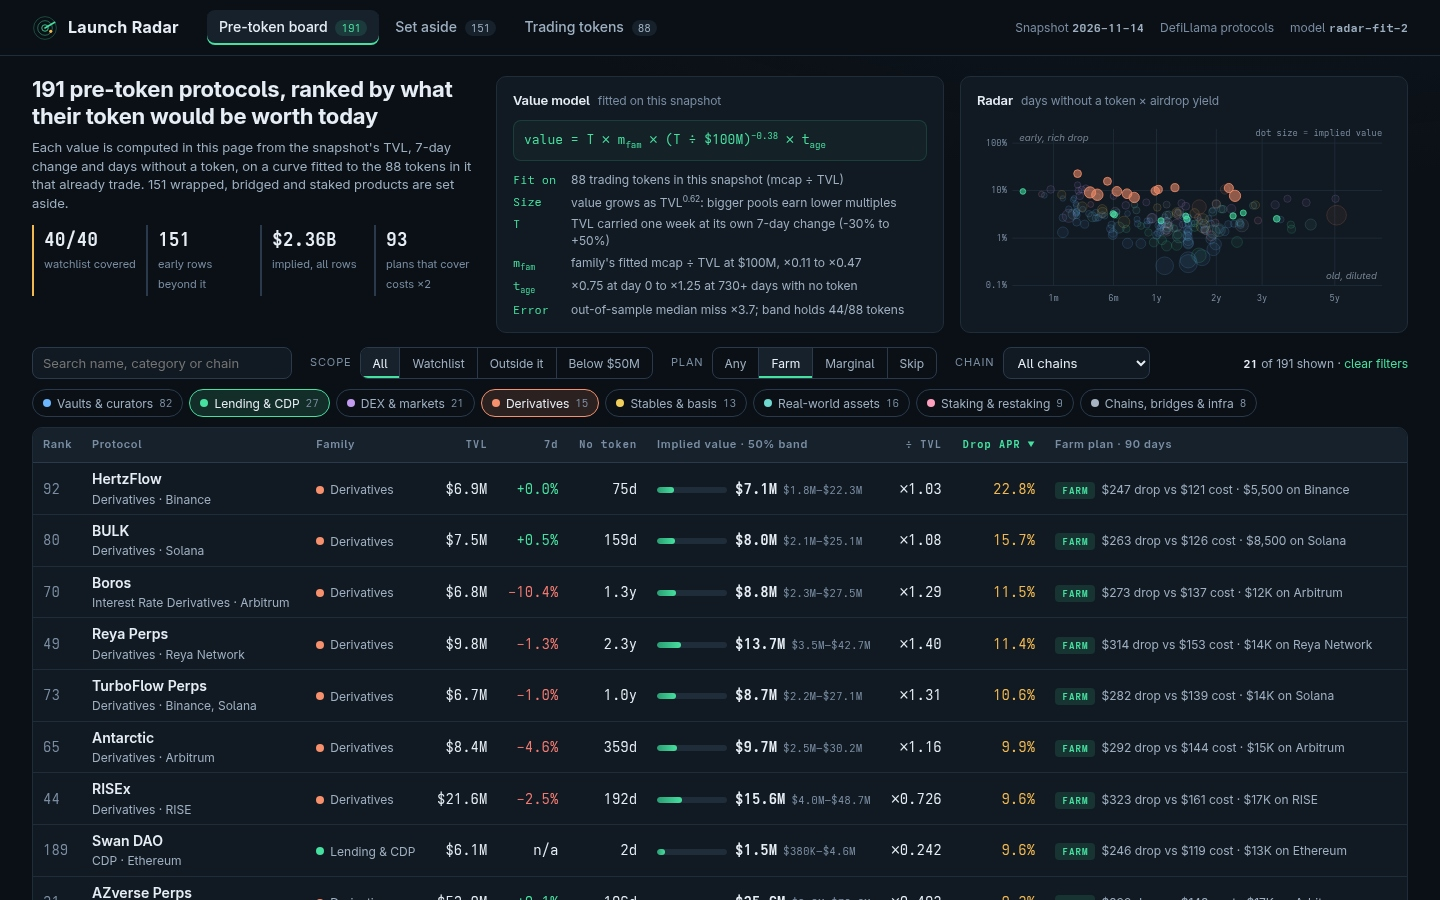
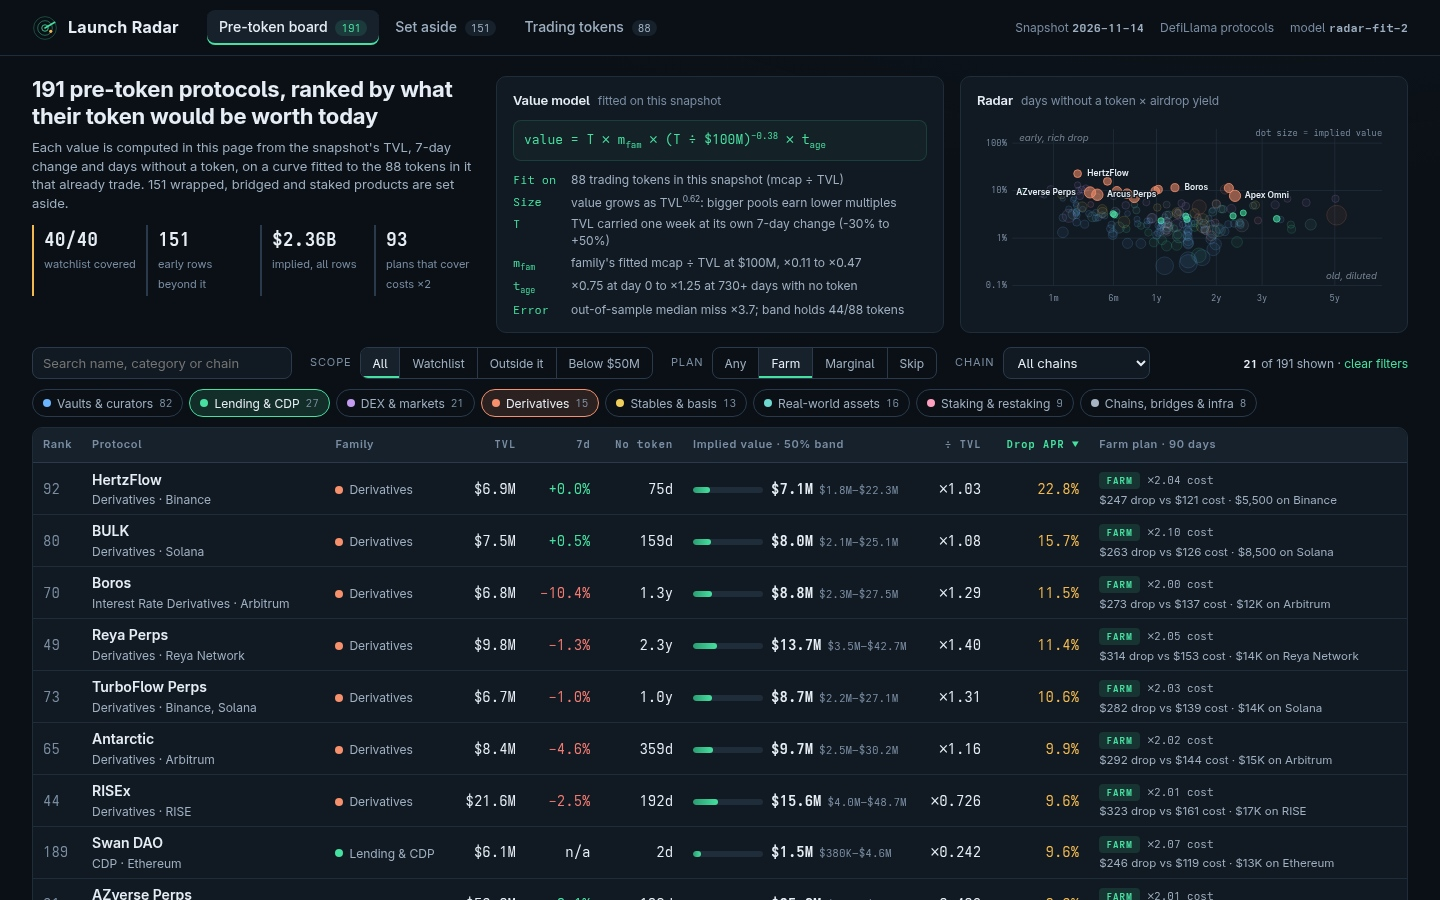
Label the radar's most valuable and best-yield protocols; plan cell on two lines

diff --git a/dashboard/app.js b/dashboard/app.js
@@ -75,6 +75,24 @@
       const rad = 2.2 + 9 * Math.sqrt(r.v.implied / maxImplied);
       dots += `<a href="${link({ p: r.p.slug })}"><circle class="dot f-${r.v.family}${on.has(r.p.slug) ? '' : ' off'}" cx="${X(r.v.age_used).toFixed(1)}" cy="${Y(r.v.apr).toFixed(1)}" r="${rad.toFixed(1)}"><title>${esc(r.p.name)}: ${usd(r.v.implied)}, ${(r.v.apr * 100).toFixed(1)}% drop APR, ${days(r.v.age)} without a token</title></circle></a>`;
     });
+    // Name the shown rows that matter most: the three largest implied values and the three best
+    // drop yields, each label placed beside its dot where it overlaps no other label.
+    const pick = [];
+    [(a, b) => b.v.implied - a.v.implied, (a, b) => b.v.apr - a.v.apr].forEach((cmp) => {
+      shown.slice().sort(cmp).slice(0, 3).forEach((r) => { if (!pick.includes(r)) pick.push(r); });
+    });
+    const boxes = [];
+    let labels = '';
+    pick.forEach((r) => {
+      const cx = X(r.v.age_used), cy = Y(r.v.apr), w = r.p.name.length * 5.6 + 6, h = 12;
+      const tries = [[cx + 8, cy - 6], [cx - 8 - w, cy - 6], [cx - w / 2, cy - 20], [cx - w / 2, cy + 8]];
+      const spot = tries.find(([x, y]) => x > L && x + w < W && y > 0 && y + h < H - B &&
+        boxes.every((b) => x + w < b[0] || b[0] + b[2] < x || y + h < b[1] || b[1] + b[3] < y));
+      if (!spot) return;
+      boxes.push([spot[0], spot[1], w, h]);
+      labels += `<text class="lab" x="${(spot[0] + 3).toFixed(1)}" y="${(spot[1] + 9).toFixed(1)}">${esc(r.p.name)}</text>`;
+    });
+    dots += labels;
     return `<svg viewBox="0 0 ${W} ${H}" class="radar" role="img" aria-label="Days without a token against airdrop yield, one dot per protocol">${g}
       <text class="zone" x="${L + 8}" y="${T + 14}">early, rich drop</text><text class="zone" x="${W - RR - 6}" y="${H - B - 8}" text-anchor="end">old, diluted</text>${dots}
       <text class="ax" x="${W - RR}" y="${T + 8}" text-anchor="end">dot size = implied value</text></svg>`;
@@ -131,7 +149,7 @@
         <td class="val"><span class="bar"><i style="width:${w.toFixed(1)}%"></i></span><b>${usd(r.v.implied)}</b><small>${usd(r.v.low)}–${usd(r.v.high)}</small></td>
         <td class="num">${mult(r.v.multiple)}</td>
         <td class="num apr">${(r.v.apr * 100).toFixed(1)}%</td>
-        <td class="plan">${verdictTag(r.plan.verdict)}<small>${usd(r.plan.drop)} drop vs ${usd(r.plan.all_in)} cost · ${usd(r.plan.stake)} on ${esc(r.plan.chain)}</small></td></tr>`;
+        <td class="plan">${verdictTag(r.plan.verdict)} <span class="pmult">pays ${mult(r.plan.drop / r.plan.all_in)}</span><small>${usd(r.plan.drop)} drop vs ${usd(r.plan.all_in)} cost · ${usd(r.plan.stake)} on ${esc(r.plan.chain)}</small></td></tr>`;
     }).join('');
     return `<section class="hero">
       <div class="lead">

diff --git a/dashboard/app.css b/dashboard/app.css
@@ -65,6 +65,7 @@ main { padding: 20px 32px 24px; max-width: 1440px; margin: 0 auto; }
 .radar { width: 100%; height: auto; display: block; }
 .radar .grid { stroke: var(--line); stroke-width: 1; }
 .radar .ax { fill: var(--dim); font: 10px var(--mono); }
+.radar .lab { fill: var(--text); font: 600 9.5px var(--sans); paint-order: stroke; stroke: var(--panel); stroke-width: 3px; pointer-events: none; }
 .radar .zone { fill: var(--muted); font: italic 11px var(--sans); opacity: 0.7; }
 .dot { fill-opacity: 0.55; stroke-width: 1; stroke-opacity: 0.9; }
 .dot.off { fill-opacity: 0.06; stroke-opacity: 0.18; }
@@ -118,7 +119,9 @@ td.val b { font-weight: 600; }
 td.val small { display: inline; margin-left: 6px; font: 11px var(--mono); color: var(--dim); }
 td.apr { color: var(--amber); }
 td.plan { white-space: nowrap; }
-td.plan small { display: inline; margin-left: 6px; }
+td.plan .pmult { font: 11px var(--mono); color: var(--muted); margin-left: 4px; }
+td.plan small { display: block; margin-top: 2px; font-size: 11.5px; }
+td.proto { min-width: 230px; }
 .verdict { display: inline-block; font: 600 10px var(--mono); text-transform: uppercase; letter-spacing: 0.06em; padding: 2px 7px; border-radius: 4px; }
 .v-farm { background: #46e0a022; color: var(--accent); }
 .v-marginal { background: #f2b95022; color: var(--amber); }
